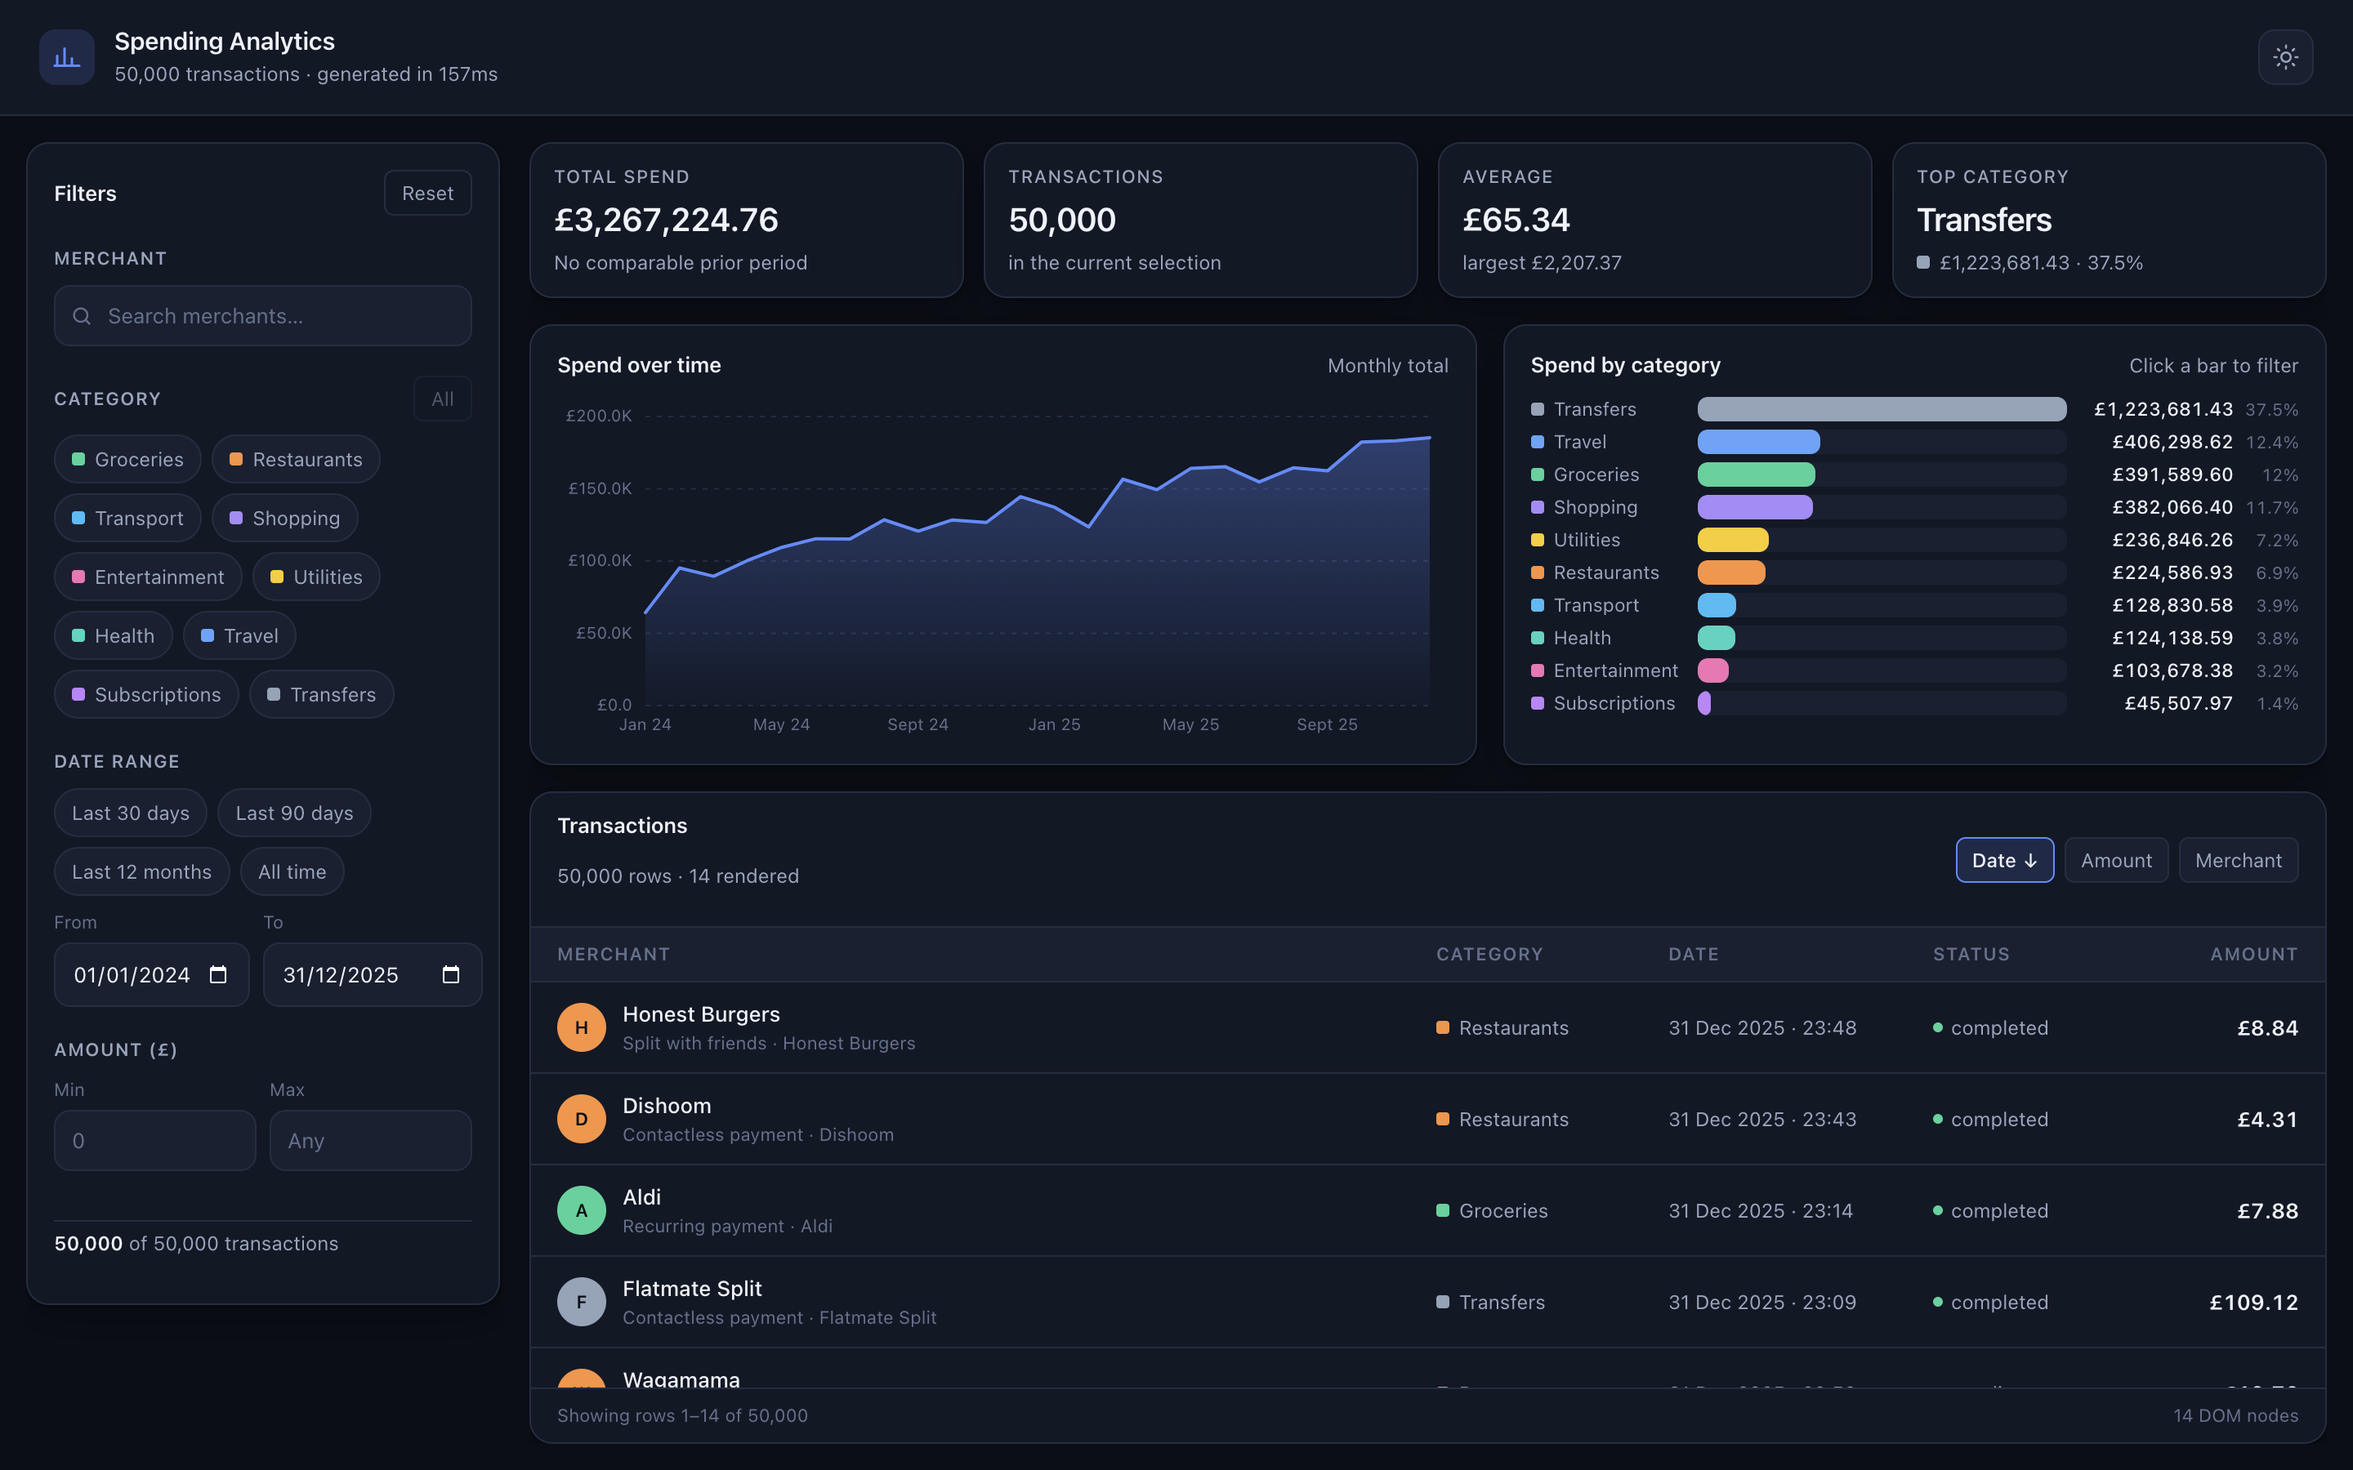
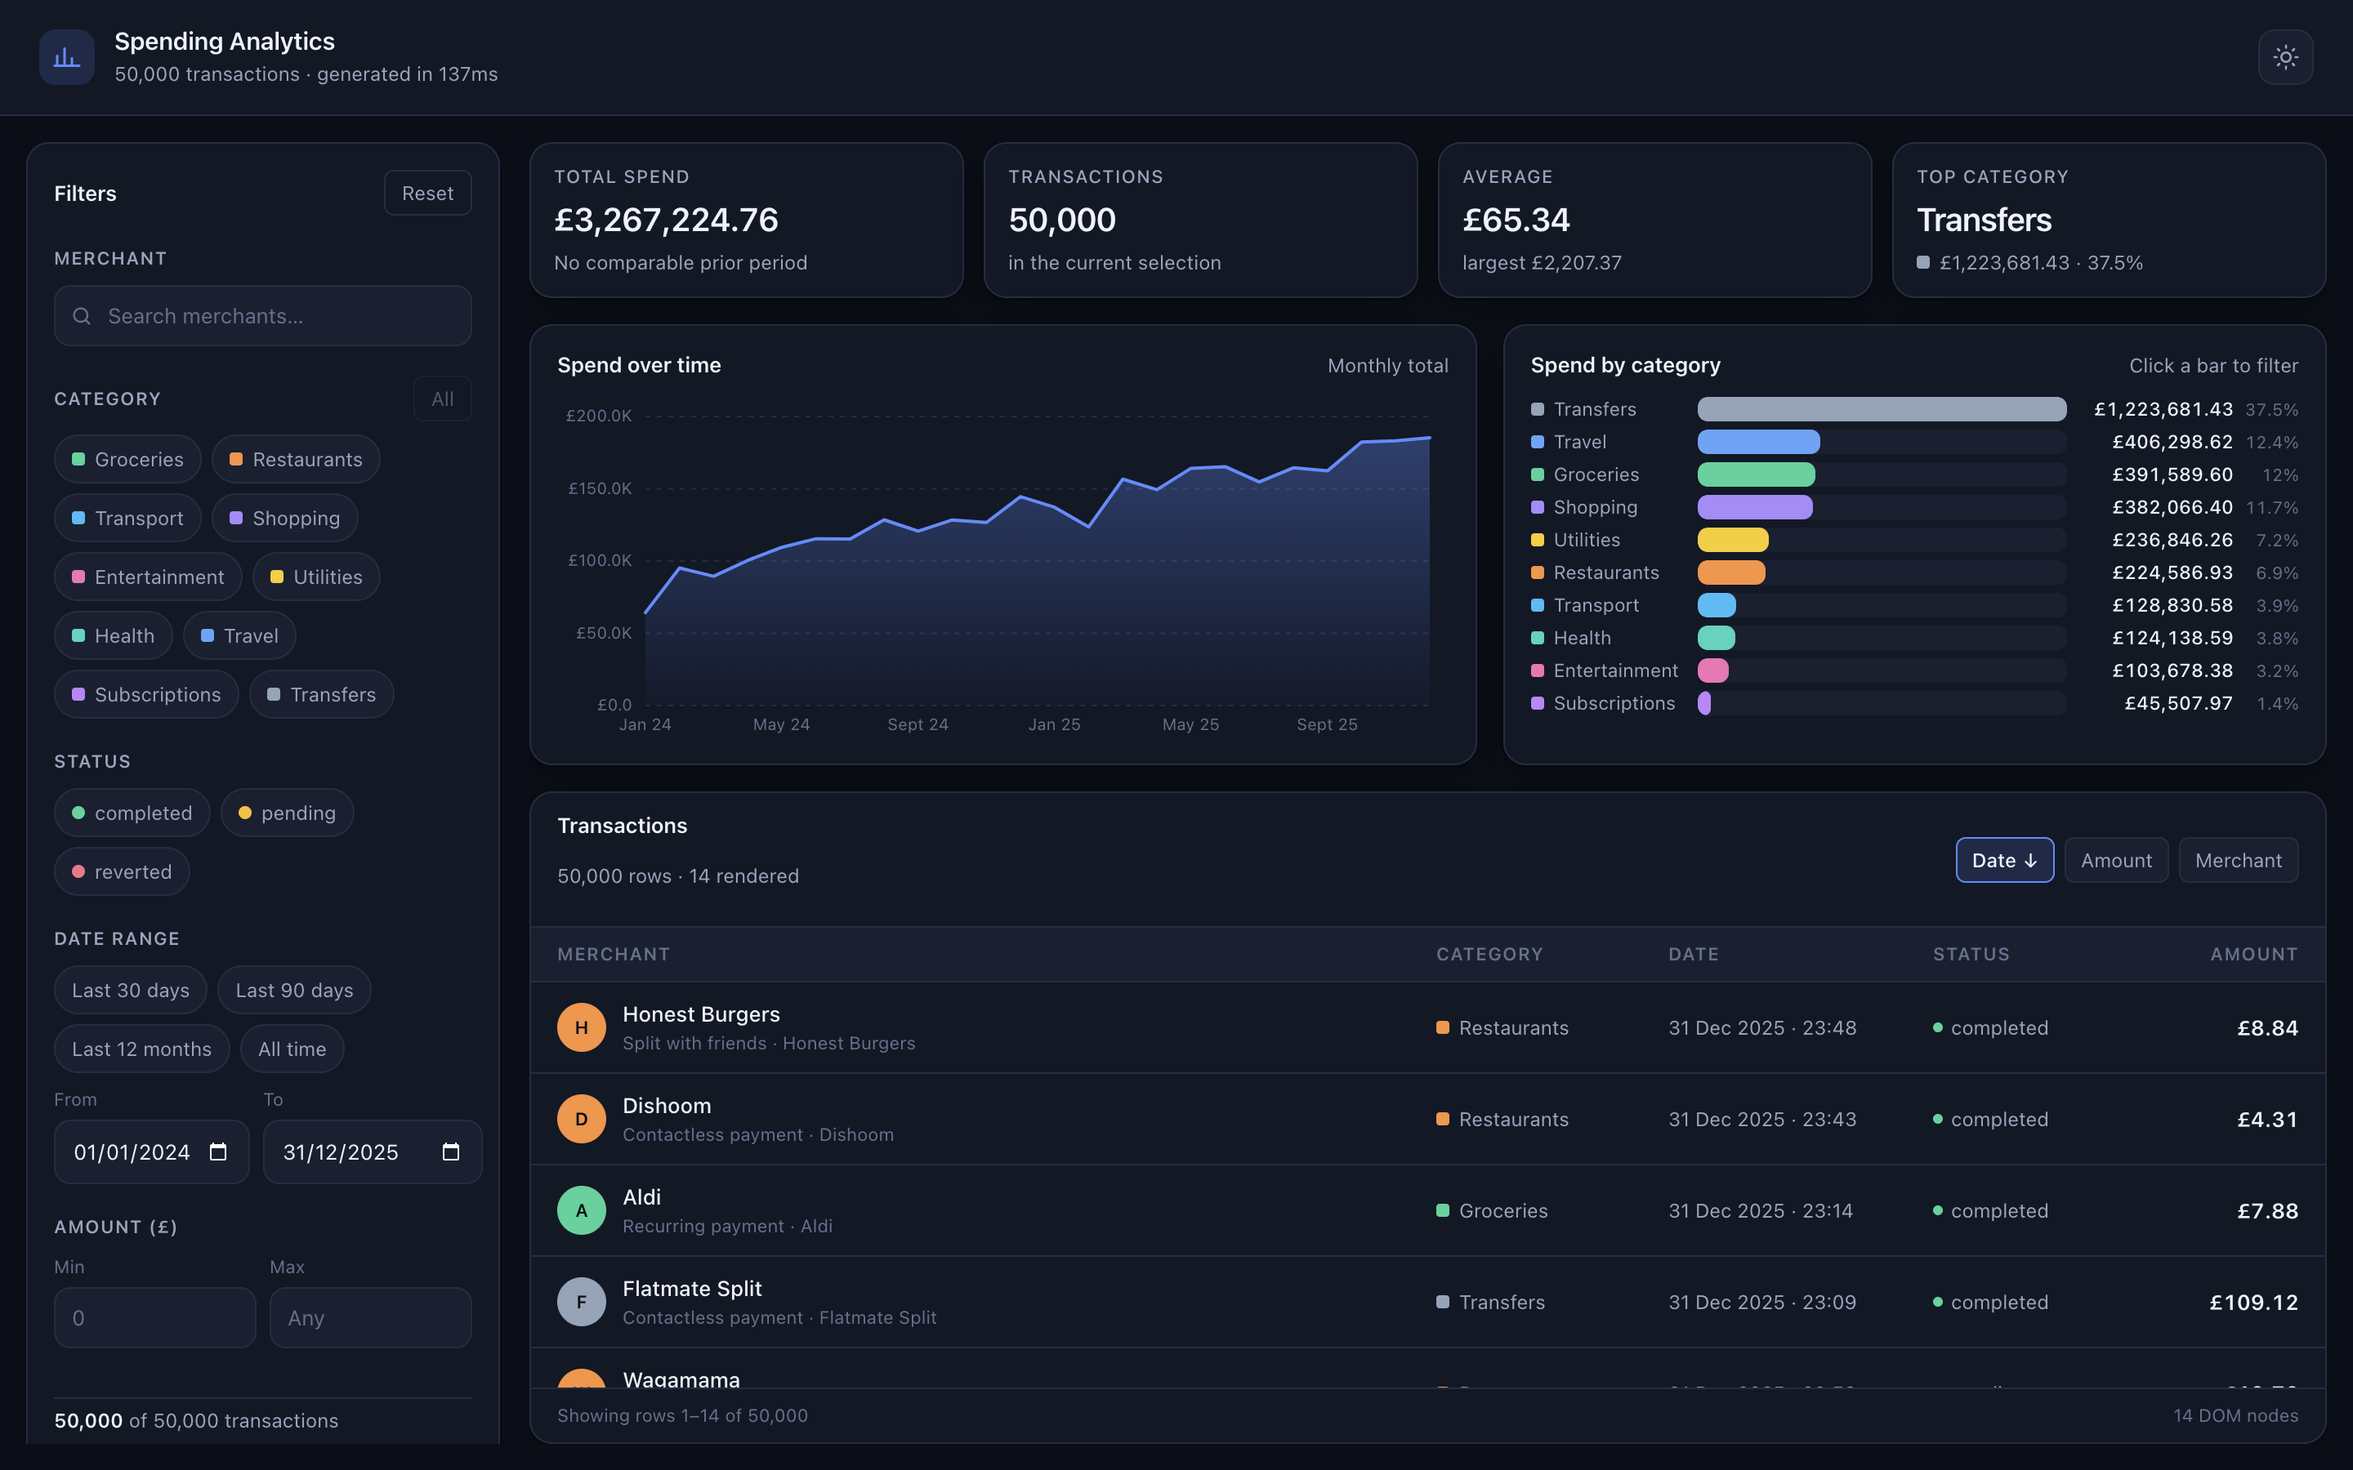
refactor: remove unused exports and surface the status filter
A pass over the public surface found seven exports the app never used:
the filters-panel UI state, selectTopMerchants, scrollToIndex,
daysBetween, categoriesSet, transactionsCleared and sortDirectionChanged.
All removed, along with the tests that only existed to cover them.

The status filter was the opposite problem — working, tested reducer
logic with no way to reach it — so it now has chips in the filter panel
alongside the categories.

Coverage rose to 97% as a result; the thresholds move up to match.

diff --git a/src/components/filters/StatusFilter.tsx b/src/components/filters/StatusFilter.tsx
@@ -1,0 +1,43 @@
+import { useAppDispatch, useAppSelector } from '@/app/hooks';
+import { statusToggled } from '@/features/filters/filtersSlice';
+import type { TransactionStatus } from '@/types/transaction';
+import { statusColorVar } from '@/utils/categoryColor';
+import styles from './FilterPanel.module.css';
+
+const STATUSES: readonly TransactionStatus[] = ['completed', 'pending', 'reverted'];
+
+export function StatusFilter() {
+  const dispatch = useAppDispatch();
+  const selected = useAppSelector((state) => state.filters.statuses);
+
+  return (
+    <div className={styles.group}>
+      <span className={styles.groupLabel} id="status-filter-label">
+        Status
+      </span>
+
+      <div className={styles.chips} role="group" aria-labelledby="status-filter-label">
+        {STATUSES.map((status) => {
+          const isSelected = selected.includes(status);
+          return (
+            <button
+              key={status}
+              type="button"
+              className={`${styles.chip} ${isSelected ? styles.chipSelected : ''}`}
+              onClick={() => dispatch(statusToggled(status))}
+              aria-pressed={isSelected}
+              data-testid={`status-chip-${status}`}
+            >
+              <span
+                className={styles.chipDot}
+                style={{ background: statusColorVar(status), borderRadius: '50%' }}
+                aria-hidden="true"
+              />
+              {status}
+            </button>
+          );
+        })}
+      </div>
+    </div>
+  );
+}

diff --git a/src/features/filters/filtersSlice.test.ts b/src/features/filters/filtersSlice.test.ts
@@ -1,6 +1,5 @@
 import reducer, {
   categoriesCleared,
-  categoriesSet,
   categoryToggled,
   dateFromChanged,
   datePresetApplied,
@@ -11,7 +10,6 @@ import reducer, {
   merchantQueryChanged,
   minAmountChanged,
   sortChanged,
-  sortDirectionChanged,
   statusToggled,
 } from './filtersSlice';
 
@@ -41,13 +39,16 @@ describe('filtersSlice', () => {
     });
 
     it('keeps unrelated categories when toggling one off', () => {
-      let state = reducer(initialState, categoriesSet(['Groceries', 'Travel', 'Health']));
+      let state = reducer(initialState, categoryToggled('Groceries'));
+      state = reducer(state, categoryToggled('Travel'));
+      state = reducer(state, categoryToggled('Health'));
       state = reducer(state, categoryToggled('Travel'));
       expect(state.categories).toEqual(['Groceries', 'Health']);
     });
 
     it('clears every selection', () => {
-      const state = reducer(initialState, categoriesSet(['Groceries', 'Travel']));
+      let state = reducer(initialState, categoryToggled('Groceries'));
+      state = reducer(state, categoryToggled('Travel'));
       expect(reducer(state, categoriesCleared()).categories).toEqual([]);
     });
   });
@@ -124,9 +125,6 @@ describe('filtersSlice', () => {
       });
     });
 
-    it('can be set directly', () => {
-      expect(reducer(initialState, sortDirectionChanged('asc')).sortDirection).toBe('asc');
-    });
   });
 
   it('returns to the initial state on reset', () => {

diff --git a/src/features/transactions/selectors.ts b/src/features/transactions/selectors.ts
@@ -77,7 +77,7 @@ const selectAmountBounds = createSelector([selectMinAmount, selectMaxAmount], (m
   maxMinor: parseAmountToMinor(max),
 }));
 
-export const selectDateBounds = createSelector([selectDateFrom, selectDateTo], (from, to) => ({
+const selectDateBounds = createSelector([selectDateFrom, selectDateTo], (from, to) => ({
   fromMs: startOfDayMs(from),
   toMs: endOfDayMs(to),
 }));
@@ -298,31 +298,6 @@ export const selectSpendByMonth = createSelector(
     );
   },
 );
-
-export interface MerchantDatum {
-  merchant: string;
-  totalMinor: number;
-  count: number;
-}
-
-/** The biggest merchants by spend in the current selection. */
-export const selectTopMerchants = createSelector([selectFilteredTransactions], (transactions): MerchantDatum[] => {
-  const totals = new Map<string, { totalMinor: number; count: number }>();
-
-  for (const transaction of transactions) {
-    const entry = totals.get(transaction.merchant);
-    if (entry) {
-      entry.totalMinor += transaction.amountMinor;
-      entry.count += 1;
-    } else {
-      totals.set(transaction.merchant, { totalMinor: transaction.amountMinor, count: 1 });
-    }
-  }
-
-  return Array.from(totals, ([merchant, entry]) => ({ merchant, ...entry }))
-    .sort((a, b) => b.totalMinor - a.totalMinor)
-    .slice(0, 8);
-});
 
 /** True when the user has narrowed the dataset in any way. */
 export const selectHasActiveFilters = createSelector([selectFilters], (filters) => {

diff --git a/src/components/filters/FilterPanel.test.tsx b/src/components/filters/FilterPanel.test.tsx
@@ -117,6 +117,32 @@ describe('FilterPanel', () => {
     });
   });
 
+  describe('statuses', () => {
+    it('toggles a status on and off', async () => {
+      const user = userEvent.setup();
+      const { store } = renderPanel();
+      const chip = screen.getByTestId('status-chip-pending');
+
+      await user.click(chip);
+      expect(store.getState().filters.statuses).toEqual(['pending']);
+      expect(chip).toHaveAttribute('aria-pressed', 'true');
+
+      await user.click(chip);
+      expect(store.getState().filters.statuses).toEqual([]);
+    });
+
+    it('narrows the list to the selected status', async () => {
+      const user = userEvent.setup();
+      renderPanel();
+
+      // The fixture set has a single pending transaction.
+      await user.click(screen.getByTestId('status-chip-pending'));
+      await waitFor(() =>
+        expect(screen.getByTestId('result-count')).toHaveTextContent('1 of 5 transactions'),
+      );
+    });
+  });
+
   describe('date range', () => {
     it('applies a preset', async () => {
       const user = userEvent.setup();

diff --git a/src/features/transactions/selectors.test.ts b/src/features/transactions/selectors.test.ts
@@ -13,7 +13,6 @@ import {
   selectSpendByCategory,
   selectSpendByMonth,
   selectSummary,
-  selectTopMerchants,
   selectVisibleTransactions,
 } from './selectors';
 
@@ -275,21 +274,6 @@ describe('selectSpendByMonth', () => {
       { month: '2025-06', totalMinor: 100, count: 1 },
       { month: '2025-07', totalMinor: 200, count: 1 },
     ]);
-  });
-});
-
-describe('selectTopMerchants', () => {
-  it('ranks merchants by spend and combines their transactions', () => {
-    const result = selectTopMerchants(buildState(dataset));
-    expect(result[0]).toEqual({ merchant: 'Tesco', totalMinor: 12_500, count: 2 });
-    expect(result[1]).toEqual({ merchant: 'Amazon', totalMinor: 12_000, count: 1 });
-  });
-
-  it('caps the list at eight entries', () => {
-    const many = Array.from({ length: 30 }, (_, index) =>
-      makeTransaction({ merchant: `Merchant ${index}`, amountMinor: index * 100 + 100 }),
-    );
-    expect(selectTopMerchants(buildState(many, { dateFrom: '', dateTo: '' }))).toHaveLength(8);
   });
 });
 

diff --git a/src/hooks/useVirtualizer.ts b/src/hooks/useVirtualizer.ts
@@ -24,7 +24,6 @@ export interface UseVirtualizerResult<T extends HTMLElement> {
   virtualItems: VirtualItem[];
   totalHeight: number;
   range: VirtualRange;
-  scrollToIndex: (index: number) => void;
   scrollToTop: () => void;
 }
 
@@ -137,17 +136,6 @@ export function useVirtualizer<T extends HTMLElement = HTMLDivElement>({
     }
   }, [element, itemCount, itemHeight]);
 
-  const scrollToIndex = useCallback(
-    (index: number) => {
-      const node = elementRef.current;
-      if (!node) return;
-      const clamped = Math.min(Math.max(index, 0), Math.max(0, itemCount - 1));
-      node.scrollTop = clamped * itemHeight;
-      setScrollTop(node.scrollTop);
-    },
-    [itemCount, itemHeight],
-  );
-
   const scrollToTop = useCallback(() => {
     const node = elementRef.current;
     if (!node) return;
@@ -173,7 +161,6 @@ export function useVirtualizer<T extends HTMLElement = HTMLDivElement>({
     virtualItems,
     totalHeight: itemCount * itemHeight,
     range,
-    scrollToIndex,
     scrollToTop,
   };
 }

diff --git a/src/features/filters/filtersSlice.ts b/src/features/filters/filtersSlice.ts
@@ -59,9 +59,6 @@ const filtersSlice = createSlice({
         state.categories.splice(index, 1);
       }
     },
-    categoriesSet(state, action: PayloadAction<Category[]>) {
-      state.categories = action.payload;
-    },
     categoriesCleared(state) {
       state.categories = [];
     },
@@ -115,9 +112,6 @@ const filtersSlice = createSlice({
         state.sortDirection = action.payload === 'merchant' ? 'asc' : 'desc';
       }
     },
-    sortDirectionChanged(state, action: PayloadAction<SortDirection>) {
-      state.sortDirection = action.payload;
-    },
     filtersReset() {
       return initialState;
     },
@@ -127,7 +121,6 @@ const filtersSlice = createSlice({
 export const {
   merchantQueryChanged,
   categoryToggled,
-  categoriesSet,
   categoriesCleared,
   statusToggled,
   dateFromChanged,
@@ -136,7 +129,6 @@ export const {
   minAmountChanged,
   maxAmountChanged,
   sortChanged,
-  sortDirectionChanged,
   filtersReset,
 } = filtersSlice.actions;
 

diff --git a/src/features/ui/uiSlice.ts b/src/features/ui/uiSlice.ts
@@ -6,7 +6,6 @@ export interface UiState {
   theme: Theme;
   /** Id of the row whose details are shown in the docked panel, if any. */
   selectedTransactionId: string | null;
-  filtersPanelOpen: boolean;
 }
 
 const THEME_STORAGE_KEY = 'spending-analytics:theme';
@@ -34,7 +33,6 @@ export function readInitialTheme(): Theme {
 export const initialState: UiState = {
   theme: readInitialTheme(),
   selectedTransactionId: null,
-  filtersPanelOpen: true,
 };
 
 function persistTheme(theme: Theme): void {
@@ -65,9 +63,6 @@ const uiSlice = createSlice({
     transactionDeselected(state) {
       state.selectedTransactionId = null;
     },
-    filtersPanelToggled(state) {
-      state.filtersPanelOpen = !state.filtersPanelOpen;
-    },
   },
 });
 
@@ -76,7 +71,6 @@ export const {
   themeSet,
   transactionSelected,
   transactionDeselected,
-  filtersPanelToggled,
 } = uiSlice.actions;
 
 export default uiSlice.reducer;

diff --git a/src/features/transactions/transactionsSlice.test.ts b/src/features/transactions/transactionsSlice.test.ts
@@ -3,7 +3,6 @@ import { makeTransactionSet } from '@/test/fixtures';
 import reducer, {
   initialState,
   loadTransactions,
-  transactionsCleared,
   transactionsReceived,
 } from './transactionsSlice';
 
@@ -17,11 +16,6 @@ describe('transactionsSlice', () => {
     const state = reducer(initialState, transactionsReceived(items));
     expect(state.items).toEqual(items);
     expect(state.status).toBe('succeeded');
-  });
-
-  it('clears back to idle', () => {
-    const loaded = reducer(initialState, transactionsReceived(makeTransactionSet()));
-    expect(reducer(loaded, transactionsCleared())).toEqual(initialState);
   });
 
   describe('loadTransactions', () => {

diff --git a/src/utils/date.test.ts b/src/utils/date.test.ts
@@ -1,5 +1,4 @@
 import {
-  daysBetween,
   endOfDayMs,
   formatDate,
   formatMonthLabel,
@@ -47,17 +46,6 @@ describe('shiftDateInput', () => {
 
   it('returns the input unchanged when it cannot be parsed', () => {
     expect(shiftDateInput('nonsense', -30)).toBe('nonsense');
-  });
-});
-
-describe('daysBetween', () => {
-  it('counts whole days', () => {
-    expect(daysBetween(Date.parse('2025-01-01T00:00:00Z'), Date.parse('2025-01-31T00:00:00Z'))).toBe(30);
-  });
-
-  it('never returns less than a day', () => {
-    const now = Date.parse('2025-01-01T00:00:00Z');
-    expect(daysBetween(now, now)).toBe(1);
   });
 });
 

diff --git a/src/features/transactions/transactionsSlice.ts b/src/features/transactions/transactionsSlice.ts
@@ -55,12 +55,6 @@ const transactionsSlice = createSlice({
       state.status = 'succeeded';
       state.error = null;
     },
-    transactionsCleared(state) {
-      state.items = [];
-      state.status = 'idle';
-      state.error = null;
-      state.generatedInMs = null;
-    },
   },
   extraReducers: (builder) => {
     builder
@@ -80,5 +74,5 @@ const transactionsSlice = createSlice({
   },
 });
 
-export const { transactionsReceived, transactionsCleared } = transactionsSlice.actions;
+export const { transactionsReceived } = transactionsSlice.actions;
 export default transactionsSlice.reducer;

diff --git a/src/features/ui/uiSlice.test.ts b/src/features/ui/uiSlice.test.ts
@@ -1,5 +1,4 @@
 import reducer, {
-  filtersPanelToggled,
   initialState,
   themeSet,
   themeToggled,
@@ -41,10 +40,5 @@ describe('uiSlice', () => {
   it('deselects explicitly', () => {
     const selected = reducer(initialState, transactionSelected('txn_1'));
     expect(reducer(selected, transactionDeselected()).selectedTransactionId).toBeNull();
-  });
-
-  it('toggles the filters panel', () => {
-    const closed = reducer(initialState, filtersPanelToggled());
-    expect(closed.filtersPanelOpen).toBe(!initialState.filtersPanelOpen);
   });
 });
